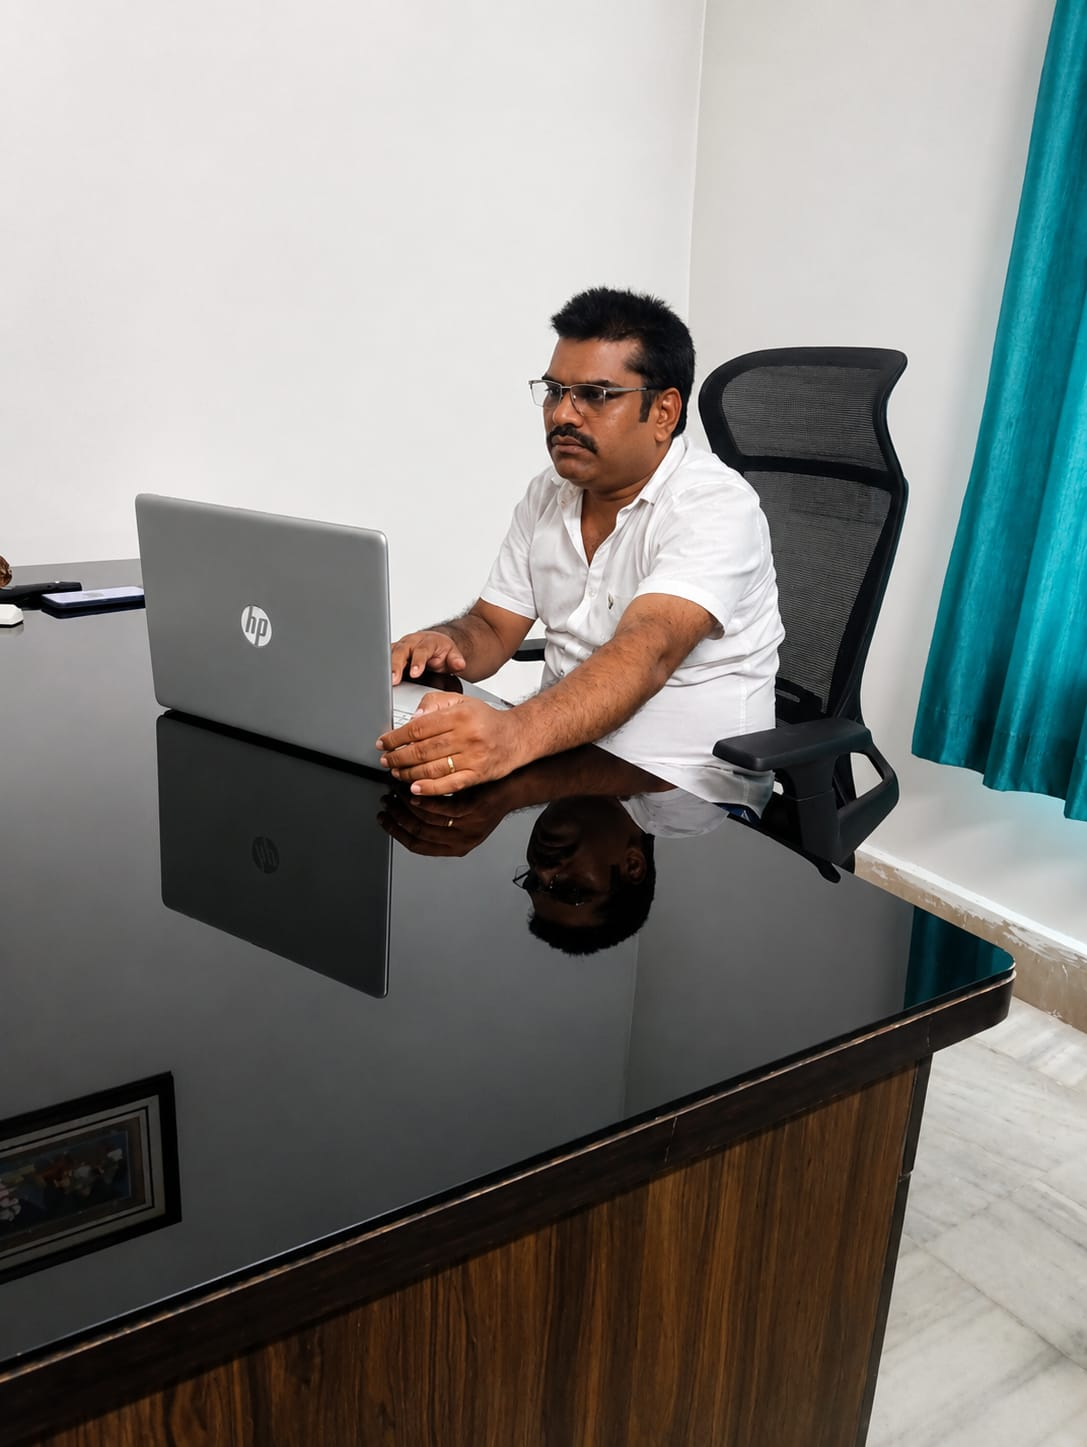
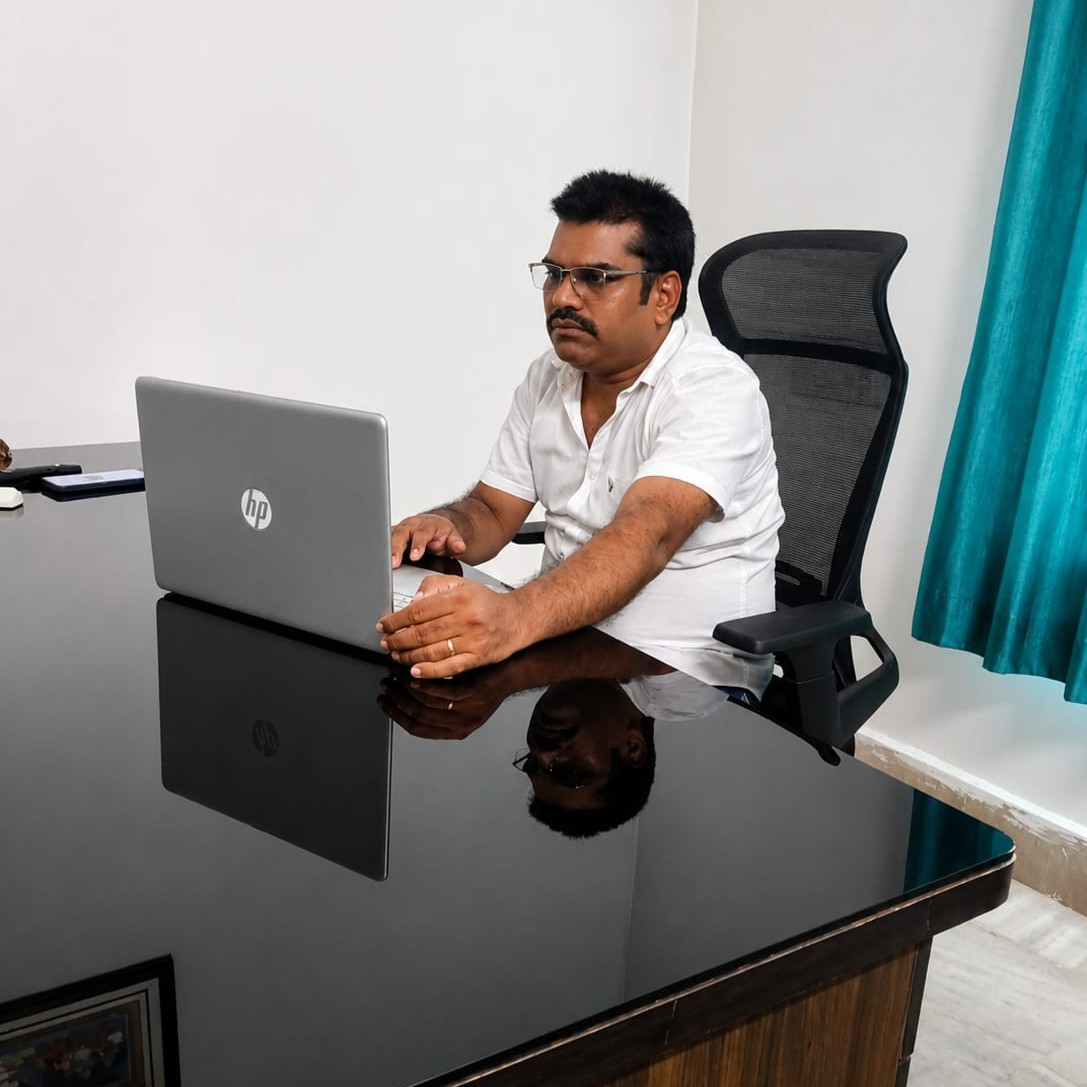
xx

diff --git a/style.css b/style.css
@@ -113,11 +113,59 @@ section { padding: 88px 6%; }
 .pcard-wa { display: block; text-align: center; background: var(--green-wa); color: white; padding: 10px; border-radius: var(--r); margin-top: 15px; }
 
 /* MANAGEMENT TEAM GRID */
-.team-grid { display: grid; grid-template-columns: repeat(auto-fit, minmax(280px, 1fr)); gap: 40px; margin-top: 40px; }
-.agent-frame { border-radius: var(--r-lg); overflow: hidden; border: 1px solid rgba(17, 120, 64, .18); position: relative; height: 400px; }
-.agent-nameplate { position: absolute; bottom: 0; width: 100%; padding: 20px; background: rgba(9, 18, 14, 0.85); backdrop-filter: blur(5px); border-top: 1px solid rgba(17, 120, 64, .15); text-align: center; }
-.agent-name { font-family: var(--ff-display); font-size: 1.5rem; color: var(--white); }
-.agent-title { font-size: .8rem; color: var(--gold); text-transform: uppercase; }
+.team-grid { 
+    display: grid; 
+    grid-template-columns: repeat(auto-fit, minmax(260px, 1fr)); 
+    gap: 30px; 
+    margin-top: 40px; 
+}
+
+.agent-frame { 
+    border-radius: var(--r-lg); 
+    overflow: hidden; 
+    border: 1px solid rgba(17, 120, 64, .18); 
+    background: var(--dark2);
+    display: flex;
+    flex-direction: column;
+    transition: transform var(--t), box-shadow var(--t), border-color var(--t);
+}
+
+.agent-frame:hover {
+    transform: translateY(-5px);
+    box-shadow: 0 10px 30px rgba(0, 0, 0, 0.4);
+    border-color: var(--gold);
+}
+
+.agent-frame img { 
+    height: 280px; /* Reduced from 400px so it's not overly big */
+    width: 100%;
+    object-fit: cover; 
+    object-position: top center; /* Keeps the focus on the face */
+}
+
+.agent-nameplate { 
+    padding: 25px 20px; 
+    text-align: center; 
+    border-top: 3px solid var(--gold); /* Adds a premium green accent line under the photo */
+    display: flex;
+    flex-direction: column;
+    flex-grow: 1; /* Ensures the buttons align at the bottom even if names are long */
+}
+
+.agent-name { 
+    font-family: var(--ff-display); 
+    font-size: 1.5rem; 
+    color: var(--white); 
+    margin-bottom: 5px;
+}
+
+.agent-title { 
+    font-size: .8rem; 
+    color: var(--gold); 
+    text-transform: uppercase; 
+    font-weight: bold; 
+    margin-bottom: 15px; /* Adds breathing room before the button */
+}
 
 /* CONTACT FORM */
 .contact-inner { display: grid; grid-template-columns: 1fr 1fr; gap: 60px; }
